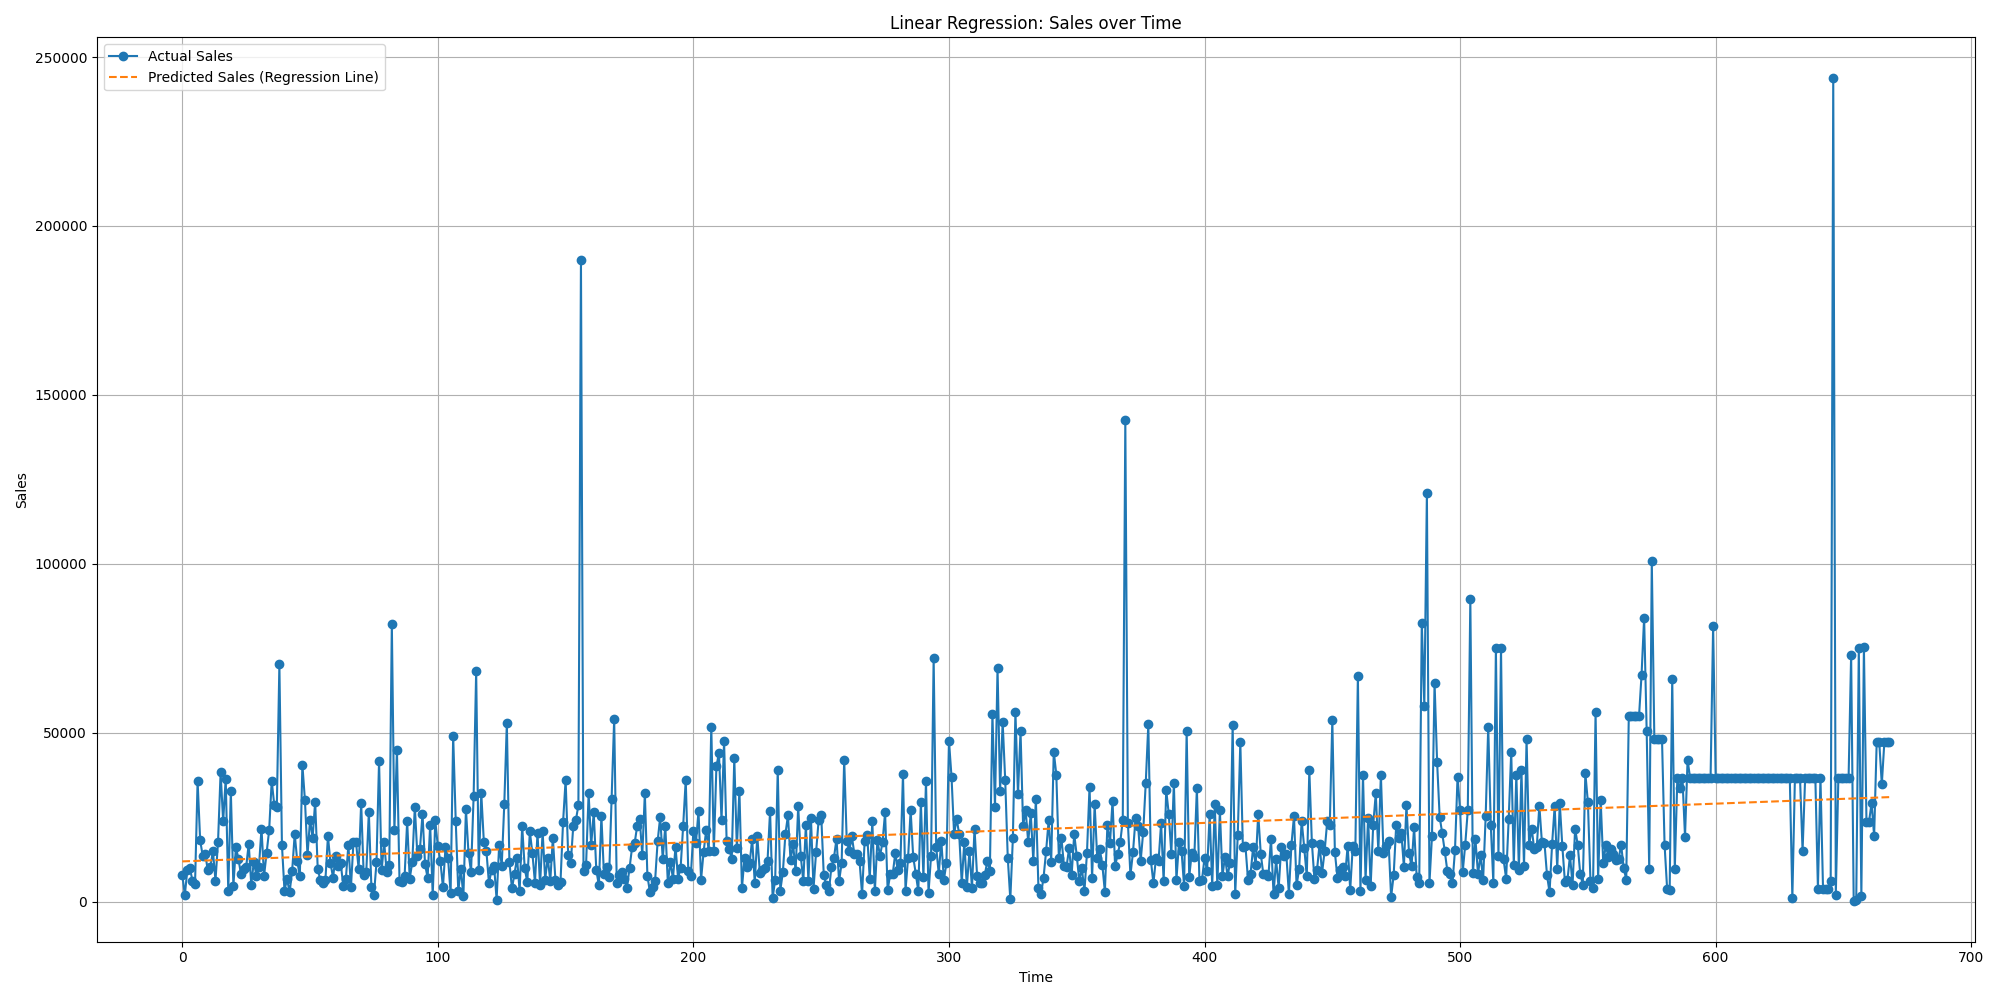
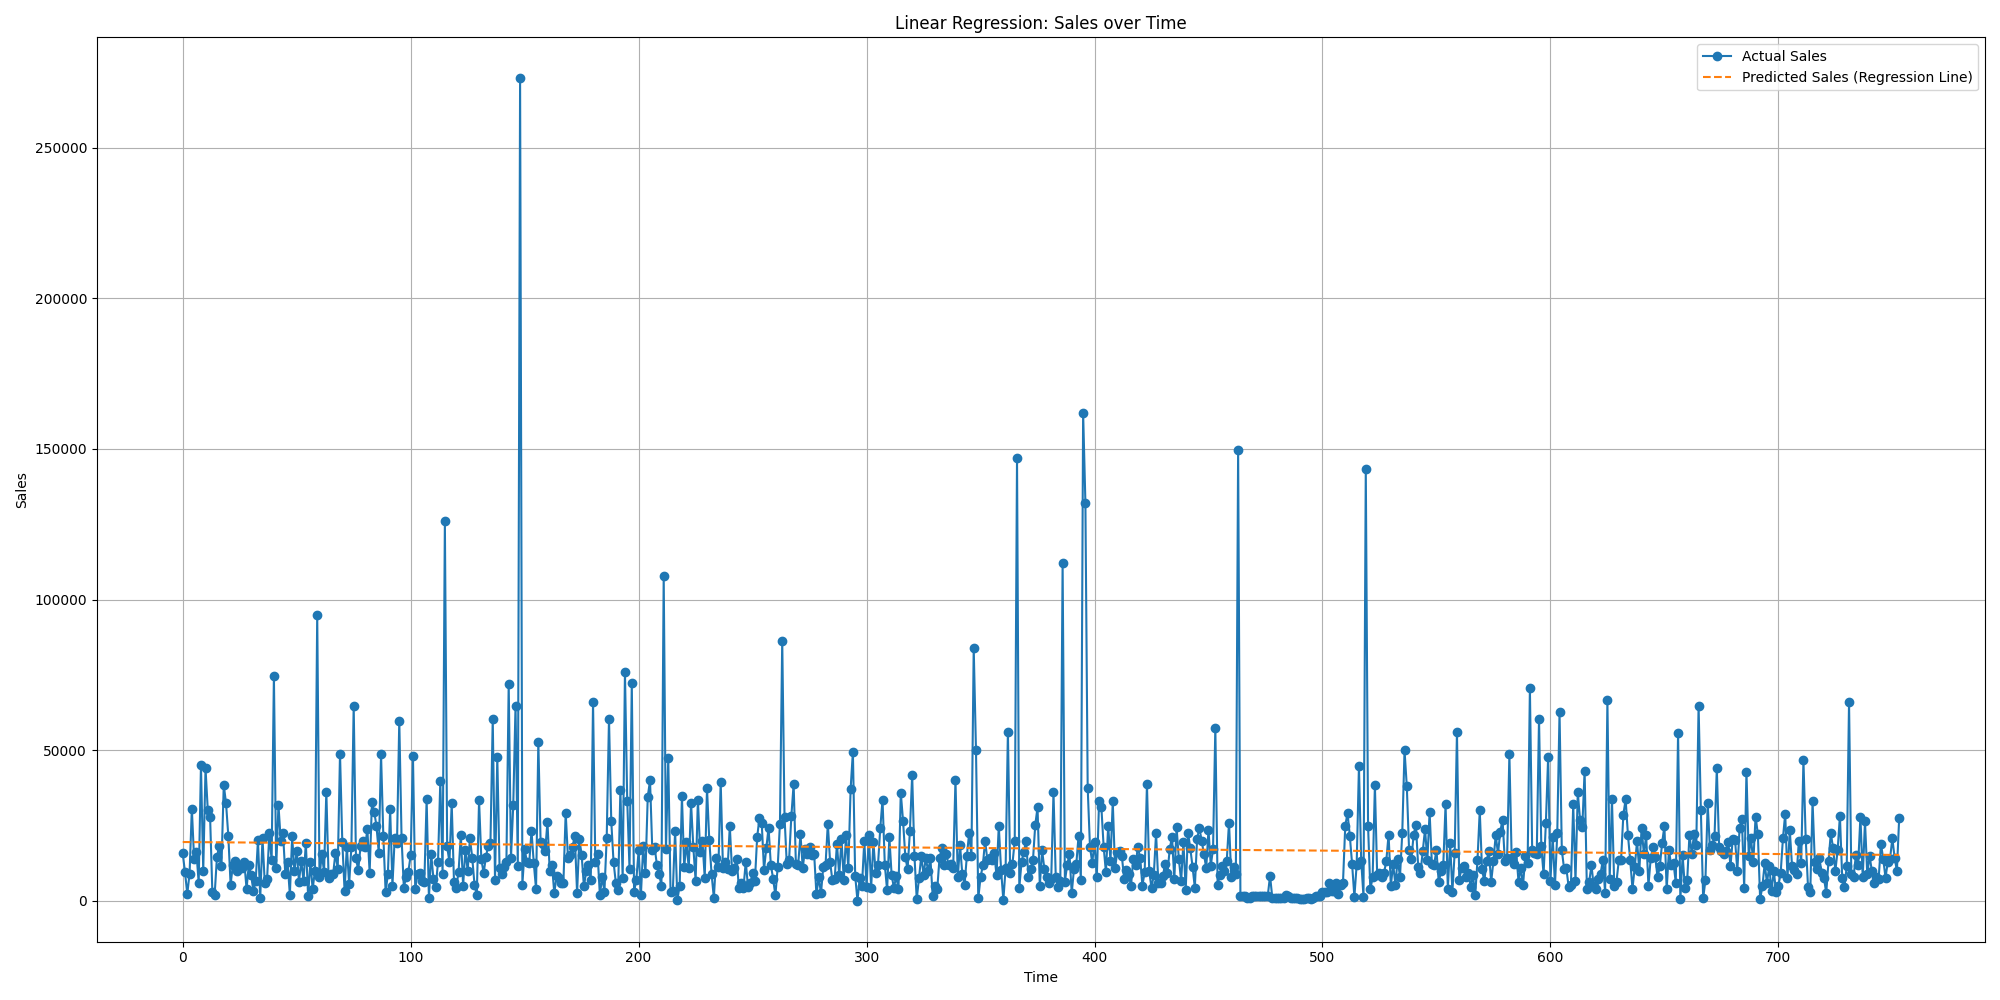
今日も一日

diff --git a/snippet.py b/snippet.py
@@ -6,6 +6,7 @@ import numpy as np
 import math
 import re
 from sklearn.linear_model import LinearRegression
+import statsmodels.formula.api as smf
 
 
 def tsv2_connection():
@@ -106,6 +107,8 @@ plt.figure()
 plt.hist(df1["kingaku"].tolist(), bins=20, color="skyblue", alpha=0.5)
 plt.hist(df2["kingaku"].tolist(), bins=20, color="red", alpha=0.5)
 plt.savefig("histogram.png", dpi=300, bbox_inches="tight")
+
+
 df["index"] = np.arange(len(df.index))
 X = df.loc[:, ["index"]]
 y = df.loc[:, ["kingaku"]]
@@ -131,21 +134,23 @@ print(f"傾き（coefficient）: {model.coef_[0]}")
 print(f"切片（intercept）: {model.intercept_}")
 
 df3 = db_pd(
-    "SELECT  order_serial,juchubi,tanka,shouhin,SUM(kingaku)AS kingaku,urite_shamei,ken,gyoushu,chumon,suryou FROM order_dat_m WHERE ken=%s AND order_time>DATE_ADD(CURRENT_DATE, INTERVAL - 120 DAY) group by juchubi order by juchubi",
+    "SELECT  order_serial,max(juchubi)AS juchubi,tanka,shouhin,SUM(kingaku)AS kingaku,urite_shamei,ken,gyoushu,chumon,suryou,max(order_time)as ord FROM order_dat_m WHERE ken=%s AND order_time>DATE_ADD(CURRENT_DATE, INTERVAL - 360 DAY) group by juchubi order by ord",
     ("東京都",),
 )
 df3 = df3["data"]
 
 df3["lag_1"] = df3["kingaku"].shift(1)  # try to predict value of next day
+df3.set_index("juchubi", inplace=True)  # set juchubi as index
+df3.index = pd.to_datetime(df3.index)
 X = df3.loc[:, ["lag_1"]]
-X.dropna(inplace=True)
+X.dropna(inplace=True)  # drop n/a of x
 y = df3.loc[:, "kingaku"]  # target
-y, X = y.align(X, join="inner")  # inner:drop corresponding values in target
+y, X = y.align(X, join="inner")  # inner:drop y where there's no X
 model = LinearRegression()
 model.fit(X, y)
 y_pred = pd.Series(model.predict(X), index=X.index)
 
-plt.figure(figsize=(12, 6))
+plt.figure(figsize=(20, 6))
 
 # 実際の sales（ターゲット）
 plt.plot(y.index, y, label="Actual Sales", marker="o")
@@ -156,10 +161,64 @@ plt.plot(y_pred.index, y_pred, label="Predicted Sales (Lag Model)", linestyle="-
 plt.xlabel("Date" if isinstance(y.index[0], pd.Timestamp) else "Time")
 plt.ylabel("Sales")
 plt.title("Sales Prediction using Lag Feature (lag_1)")
+
+plt.xticks(rotation=45)
 plt.legend()
 plt.grid(True)
 plt.tight_layout()
 plt.savefig("lagreg.png")  # まあ当然当たらん
+
+df4 = db_pd(
+    """SELECT
+    DATE(order_time) AS ord,
+    SUM(kingaku) AS sales,
+    CASE
+        WHEN order_time BETWEEN '2023-09-02' AND '2024-09-01' THEN 2024
+        WHEN order_time BETWEEN '2024-09-02' AND '2025-09-01' THEN 2025
+    END AS year
+FROM order_dat_m
+WHERE ken = %s
+  AND order_time BETWEEN '2023-09-02' AND '2025-09-01'
+GROUP BY ord, year
+ORDER BY ord, year;
+""",
+    ("東京都",),
+)
+df4 = df4["data"]
+df4["ord"] = pd.to_datetime(df4["ord"], errors="coerce")
+df4["month_day"] = df4["ord"].dt.strftime("%m-%d")
+
+df_pivot = df4.pivot(index="month_day", columns="year", values="sales").reset_index()
+
+# プロット
+plt.figure(figsize=(14, 6))
+
+for col in df_pivot.columns[1:]:  # year列だけループ
+    plt.plot(df_pivot["month_day"], df_pivot[col], marker="o", label=f"{col}年度")
+
+plt.title("Daily Sales Comparison by Month-Day")
+plt.xlabel("Month-Day")
+plt.ylabel("Sales (Kingaku)")
+plt.xticks(rotation=45)
+plt.grid(True)
+plt.legend()
+plt.tight_layout()
+plt.savefig("daily_sales_comparison.png")
+# 以下DID、2-3月になんか試作したつもりでやる
+df4["treatment"] = 0
+df4.loc[
+    (df4["year"] == 2025) & (df4["month_day"].between("02-01", "03-31")), "treatment"
+] = 1
+
+# postフラグ（今年の年を1、前年を0）
+df4["post"] = (df4["year"] == 2025).astype(int)
+
+# DID交互作用
+df4["did"] = df4["treatment"] * df4["post"]
+
+# DID回帰
+model = smf.ols("sales ~ treatment + post + did", data=df4).fit()
+print(model.summary())
 
 
 # 配列について
